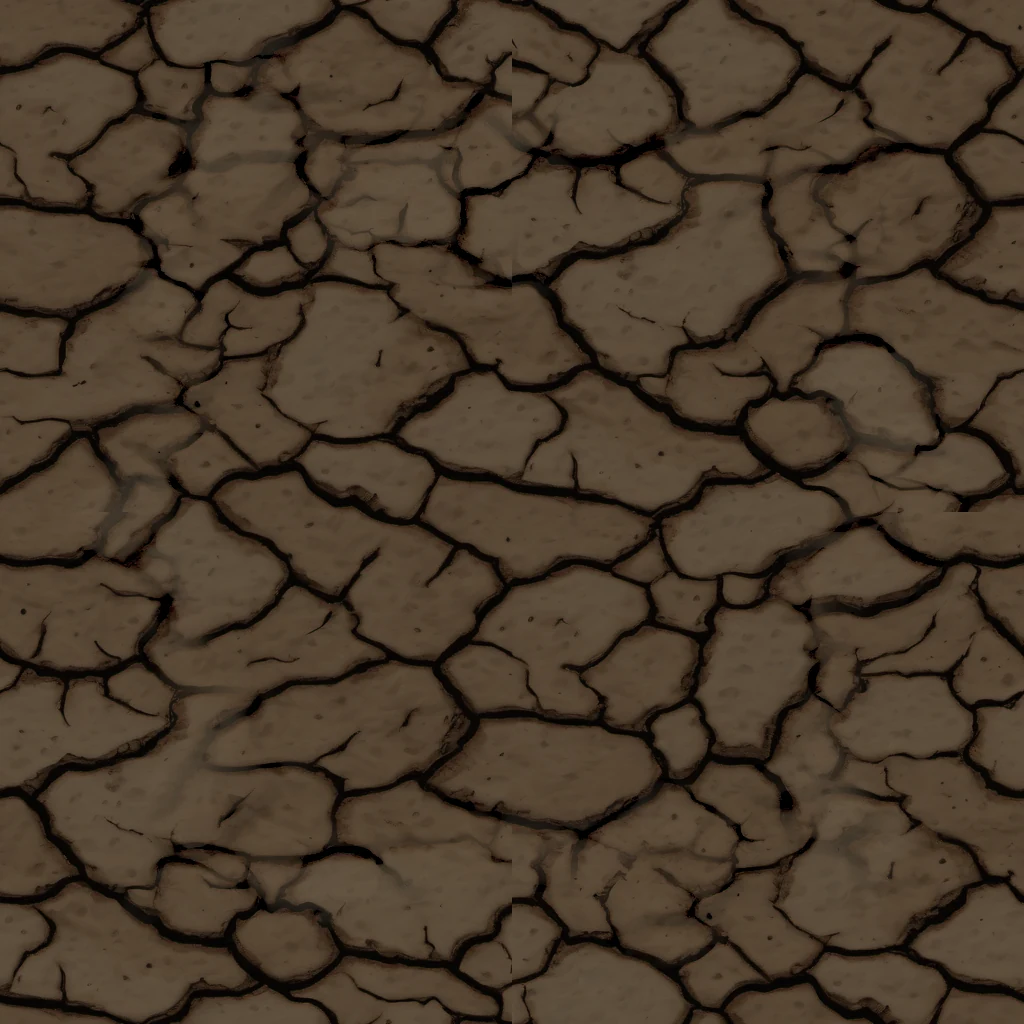
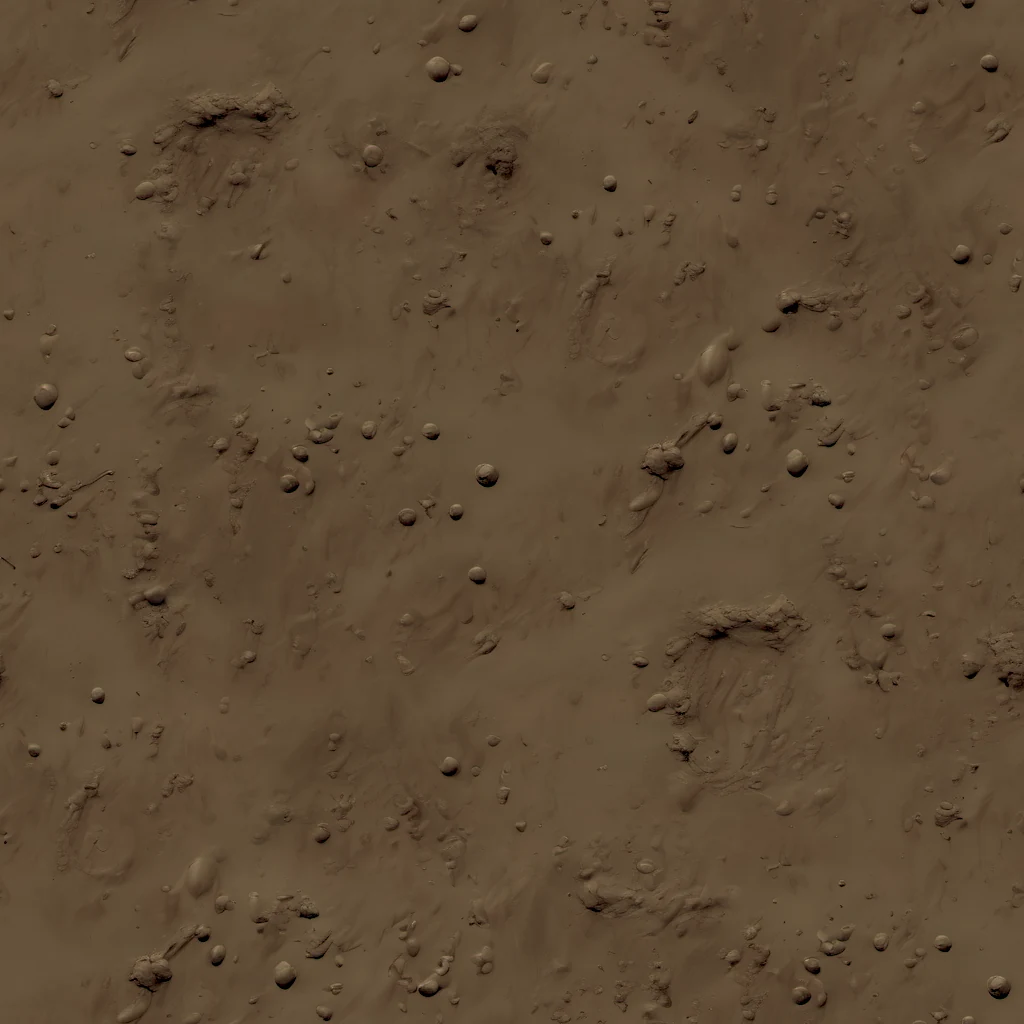
Painted textures for fields, mud, rock, sand and trench bands; blue rivers and sea
- field patchwork: pasture, green and ripening crops, ploughland with furrows that turn per field
- trench ribbon bands carry their own texture layer (sandbags, planks, mud, dirt)
- rivers painted as water with shallows, glints and a foam line; sea shifted to blue
- brighter texture grading

Claude-Session: https://claude.ai/code/session_016pgHKhuVkKihZSEc1iJ9a4

diff --git a/packages/client/src/render/trenches.ts b/packages/client/src/render/trenches.ts
@@ -7,6 +7,7 @@ import { HH, HW, TS, type GameState } from '@riskrts/shared';
 import { BF_SS, type BorderField } from './borderField';
 import type { Terrain } from './terrain';
 import { col } from './util';
+import { uGOn, uGTex } from './groundTex';
 
 /** Distance of each line from the border (tiles), and the half width of the cut (tiles) for trench level lv. */
 export const TR_D = [.42, 1.12];
@@ -29,7 +30,7 @@ type Seg = [number, number, number, number];
 
 export class Trenches {
   private readonly group = new THREE.Group();
-  private readonly mat = new THREE.MeshLambertMaterial({ vertexColors: true });
+  private readonly mat = trenchMaterial();
   private readonly meshes = new Map<string, THREE.Mesh>();
   /** Candidate cells per (region pair, line): indices of field cells whose corners all lie on that pair's side near the line. */
   private readonly cells = new Map<string, Int32Array>();
@@ -92,39 +93,47 @@ export class Trenches {
       return (dist[i] * (1 - tx) + dist[i + 1] * tx) * (1 - ty) + (dist[i + W] * (1 - tx) + dist[i + W + 1] * tx) * ty;
     };
     const hw = trHalf(L, lv) * TS, pw = .075 * TS, dep = (L === 0 ? .03 + .004 * lv : .024), ter = this.terrain;
-    // cross-section: offset across (towards the interior = +), height above ground, colour
-    const prof: [number, number, THREE.Color][] = [
-      [-(hw + pw), 0, C.grass], [-(hw + pw * .5), .011 + .002 * lv, C.bag], [-hw * 1.02, .006, C.bag2], [-hw * .82, -dep, C.wall], [-hw * .55, -dep, C.floor],
-      [hw * .55, -dep, C.floor], [hw * .82, -dep, C.wall], [hw * 1.02, .004, C.earth], [hw + pw * .5, .007, C.earth], [hw + pw, 0, C.grass],
+    // cross-section: offset across (towards the interior = +), height above ground, colour, texture layer of the band to the next point
+    // (0 grass, 1 dirt, 2 mud, 6 sandbags, 7 planks; groundTex.ts)
+    const prof: [number, number, THREE.Color, number][] = [
+      [-(hw + pw), 0, C.grass, 6], [-(hw + pw * .5), .011 + .002 * lv, C.bag, 6], [-hw * 1.02, .006, C.bag2, 7], [-hw * .82, -dep, C.wall, 2], [-hw * .55, -dep, C.floor, 7],
+      [hw * .55, -dep, C.floor, 2], [hw * .82, -dep, C.wall, 7], [hw * 1.02, .004, C.earth, 1], [hw + pw * .5, .007, C.earth, 1], [hw + pw, 0, C.grass, 0],
     ];
-    const pos: number[] = [], colr: number[] = [], idx: number[] = [];
+    const pos: number[] = [], colr: number[] = [], uvs: number[] = [], lay: number[] = [], idx: number[] = [];
     for (const ln of lines) {
       // resample the centre line evenly, push each point out by the fire-bay offset
       const pts = resample(ln.map(([x, y]) => [wx(x), wz(y)] as [number, number]), .008);
       if (pts.length < 2) continue;
-      const base = pos.length / 3;
+      const ring: [number, number, number][][] = [];
+      let arc = 0;
       for (let q = 0; q < pts.length; q++) {
         const [x, z] = pts[q], [xa, za] = pts[Math.max(0, q - 1)], [xb, zb] = pts[Math.min(pts.length - 1, q + 1)];
         let tx = xb - xa, tz = zb - za; const tl = Math.hypot(tx, tz) || 1; tx /= tl; tz /= tl;
         let nx = -tz, nz = tx; if (distAt(x + nx * .02, z + nz * .02) < distAt(x - nx * .02, z - nz * .02)) { nx = -nx; nz = -nz; }
         let o = 0; for (let it = 0; it < 3; it++) o = zig(x + nx * o, z + nz * o, L) * TS;
         const cx = x + nx * o, cz = z + nz * o;
-        for (const [off, h, c] of prof) {
-          const px = cx + nx * off, pz = cz + nz * off;
-          pos.push(px, ter.surfaceAt(px, pz) + h + .002, pz);
-          const sh = .9 + .2 * hashf(Math.floor(q / 3) * 7 + off * 1e3);
-          colr.push(c.r * sh, c.g * sh, c.b * sh);
-        }
+        ring.push(prof.map(([off]) => { const px = cx + nx * off, pz = cz + nz * off; return [px, 0, pz]; }));
+        for (let j = 0; j < prof.length; j++) { const r = ring[q][j]; r[1] = ter.surfaceAt(r[0], r[2]) + prof[j][1] + .002; }
       }
-      const NP = prof.length;
-      for (let q = 0; q < pts.length - 1; q++) for (let j = 0; j < NP - 1; j++) {
-        const a = base + q * NP + j, b = a + 1, c = a + NP, d = c + 1;
-        idx.push(a, c, b, b, c, d);
+      // each band gets its own vertices so its texture layer does not blend into the next
+      for (let j = 0; j < prof.length - 1; j++) {
+        const base = pos.length / 3, [o0, , c0, ly] = prof[j], [o1, , c1] = prof[j + 1];
+        arc = 0;
+        for (let q = 0; q < ring.length; q++) {
+          if (q) { const a0 = ring[q - 1][j], a1 = ring[q][j]; arc += Math.hypot(a1[0] - a0[0], a1[2] - a0[2]); }
+          const sh = .9 + .2 * hashf(Math.floor(q / 3) * 7 + j);
+          for (const [r, off, c] of [[ring[q][j], o0, c0], [ring[q][j + 1], o1, c1]] as [[number, number, number], number, THREE.Color][]) {
+            pos.push(r[0], r[1], r[2]); colr.push(c.r * sh, c.g * sh, c.b * sh);
+            uvs.push(arc * 9, (off + r[1] * 1.5) * 9); lay.push(ly);
+          }
+        }
+        for (let q = 0; q < ring.length - 1; q++) { const a = base + q * 2, b2 = a + 1, c = a + 2, d = a + 3; idx.push(a, c, b2, b2, c, d); }
       }
     }
     const geo = new THREE.BufferGeometry();
     geo.setAttribute('position', new THREE.Float32BufferAttribute(pos, 3));
     geo.setAttribute('color', new THREE.Float32BufferAttribute(colr, 3));
+    geo.setAttribute('tuv', new THREE.Float32BufferAttribute(uvs, 2)); geo.setAttribute('lay', new THREE.Float32BufferAttribute(lay, 1));
     geo.setIndex(idx); geo.computeVertexNormals();
     const m = new THREE.Mesh(geo, this.mat); m.receiveShadow = true; m.castShadow = true; m.frustumCulled = true;
     geo.computeBoundingSphere();
@@ -132,6 +141,19 @@ export class Trenches {
   }
 
   dispose() { for (const m of this.meshes.values()) m.geometry.dispose(); this.mat.dispose(); this.group.removeFromParent(); }
+}
+
+/** Lambert with vertex colours, replaced by the painted texture layer of each band once the textures have loaded. */
+function trenchMaterial() {
+  const m = new THREE.MeshLambertMaterial({ vertexColors: true });
+  m.onBeforeCompile = (sh) => {
+    Object.assign(sh.uniforms, { uGTex, uGOn });
+    sh.vertexShader = sh.vertexShader.replace('#include <common>', '#include <common>\nattribute float lay; attribute vec2 tuv; varying float vLay; varying vec2 vTUv;')
+      .replace('#include <begin_vertex>', '#include <begin_vertex>\n  vLay=lay; vTUv=tuv;');
+    sh.fragmentShader = sh.fragmentShader.replace('#include <common>', '#include <common>\nuniform highp sampler2DArray uGTex; uniform float uGOn; varying float vLay; varying vec2 vTUv;')
+      .replace('#include <color_fragment>', '#include <color_fragment>\n  { vec3 t=texture(uGTex,vec3(vTUv,floor(vLay+.5))).rgb; diffuseColor.rgb=mix(diffuseColor.rgb,t,uGOn); }');
+  };
+  return m;
 }
 
 function hashf(n: number) { const s = Math.sin(n * 12.9898) * 43758.5453; return s - Math.floor(s); }

diff --git a/packages/client/src/render/groundPaint.ts b/packages/client/src/render/groundPaint.ts
@@ -87,7 +87,13 @@ vec3 groundPaint(vec3 wp, vec3 wn){
   if(uGOn>0.&&!snowy){
     vec3 bc=dec(nat.rgb);
     float wd=smoothstep(.5,.66,m2+(m-.5)*.35)+(green?0.:.55);
-    vec3 tc=field?gt(5.,p):sandy?gt(4.,p):mix(gt(0.,p),gt(1.,p),clamp(wd,0.,1.));
+    vec3 tg0=mix(gt(0.,p),gt(1.,p),clamp(wd,0.,1.)), tc=tg0;
+    if(field){
+      // patchwork: pasture, green or ripening crops, fresh ploughland; furrows turn from field to field
+      float fk=h1(floor(floor(q/uTS+uGrid*.5)/2.)+.37); vec2 fp=bit(flW,32.)?p:p.yx;
+      vec3 crop=mix(gt(0.,p),gt(5.,fp),.45);
+      tc=fk<.35?gt(0.,p)*vec3(1.05,1.08,.9):fk<.55?crop*vec3(1.,1.12,.85):fk<.72?crop*vec3(1.45,1.3,.75):gt(5.,fp);
+    } else if(sandy) tc=gt(4.,p);
     tc=mix(tc, tc*bc/max(.02,lum(bc))*lum(tc), field?.25:.4);
     c=mix(c,tc,uGOn);
   }
@@ -118,8 +124,14 @@ vec3 groundPaint(vec3 wp, vec3 wn){
   }
   if(river){
     float d=netDist(t,f,8.);
-    if(d<.19){ c=vec3(.03,.05,.055)*(.9+.3*m); if(px>.95) c+=.05; if(d>.15) c=mix(c,vec3(.12,.13,.11),.6); }
-    else if(d<.28){ c=mix(c,vec3(.06,.05,.035),.65); if(px>.8) c=dec(vec3(.33,.4,.2)); }
+    if(d<.19){
+      // water: deep blue in the channel, lighter over the shallows, ripples, glints and a thin foam line at the bank
+      float k=d/.19; vec3 deep=dec(vec3(.17,.29,.37)), shal=dec(vec3(.33,.45,.46));
+      c=mix(deep,shal,smoothstep(.35,1.,k))*(.88+.24*n1(p*vec2(38.,22.)+n1(p*9.)*2.));
+      if(h1(floor(p*110.))>.988) c+=dec(vec3(.55));
+      c=mix(c,dec(vec3(.66,.68,.6)),smoothstep(.82,.95,k)*smoothstep(.35,.7,n1(p*70.))*.7);
+    }
+    else if(d<.28){ float k=(d-.19)/.09; c=mix(dec(vec3(.27,.21,.14))*(.8+.3*m),c,smoothstep(.2,1.,k)); if(px>.86&&k>.3) c=dec(vec3(.33,.4,.2)); }
   }
   // rock faces on steep ground: orange-brown strata
   float slope=1.-wn.y;

diff --git a/packages/client/src/render/water.ts b/packages/client/src/render/water.ts
@@ -19,12 +19,12 @@ export class Water {
   float h21(vec2 p){ return fract(sin(dot(p,vec2(127.1,311.7)))*43758.5453); }
   float vn(vec2 p){ vec2 i=floor(p),f=fract(p); f=f*f*(3.-2.*f); return mix(mix(h21(i),h21(i+vec2(1,0)),f.x),mix(h21(i+vec2(0,1)),h21(i+vec2(1,1)),f.x),f.y); }
   void main(){
-    vec3 deep=vec3(.075,.11,.135);
+    vec3 deep=vec3(.06,.12,.19);
     vec2 wp=(vMap-uSize*.5)*uTS;
     if(vMap.x<0.||vMap.y<0.||vMap.x>uSize.x||vMap.y>uSize.y){ gl_FragColor=vec4(pow(deep*.6,vec3(2.2)),1.); return; }
     vec2 q=floor(wp*48.)/48.;
     float d=max(0.,(texture2D(uCoast,vMap/uSize).r*255.-40.)/12.);
-    vec3 c=mix(vec3(.2,.29,.28),vec3(.13,.21,.24),smoothstep(.3,4.,d)); c=mix(c,deep,smoothstep(5.,18.,d));
+    vec3 c=mix(vec3(.24,.36,.42),vec3(.12,.22,.31),smoothstep(.3,4.,d)); c=mix(c,deep,smoothstep(5.,18.,d));
     float n=vn(q*1.6+vec2(uTime*.07,uTime*.05))*.6+vn(q*4.+vec2(-uTime*.11,uTime*.09))*.4;
     c*=.93+.14*n;
     float w=sin((q.x*1.3+q.y*.8)*3.1+uTime*.9+n*6.)*.5+.5;

diff --git a/packages/client/src/render/detail.ts b/packages/client/src/render/detail.ts
@@ -190,8 +190,6 @@ export class GroundDetail {
       }
       if (T.cityT[i]) continue;
       if (T.fieldT[i]) {
-        // a few bushes along the field's edge (the painted fields have soft, irregular edges, so no straight hedgerows)
-        for (let n = 0; n < 2; n++) if (hs(20 + n) < .35) { const bx = jx(21 + n), bz = jz(22 + n), s0 = .018 + hs(23 + n) * .016; add(bx, yAt(bx, bz), bz, s0, s0 * .9, s0, shade(C.hedge, .85 + hs(24 + n) * .35)); }
         if (hs(3) < .035) { // farmstead
           const fx = jx(4), fz = jz(4), h = yAt(fx, fz);
           add(fx, h, fz, .055, .035, .045, C.wall); add(fx, h + .035, fz - .011, .062, .012, .026, shade(C.roof, 1.2)); add(fx, h + .035, fz + .011, .062, .012, .026, shade(C.roof, .8)); add(fx, h + .047, fz, .062, .006, .008, C.roof);

diff --git a/packages/client/src/render/groundTex.ts b/packages/client/src/render/groundTex.ts
@@ -3,7 +3,7 @@
 // keeps its procedural colours, so `uGOn` fades them in.
 import * as THREE from 'three';
 
-export const GROUND_LAYERS = ['grass', 'dirt', 'mud', 'rock', 'sand', 'field'] as const;
+export const GROUND_LAYERS = ['grass', 'dirt', 'mud', 'rock', 'sand', 'field', 'sandbags', 'planks'] as const;
 const SIZE = 1024;
 
 export const uGTex: { value: THREE.Texture } = { value: placeholder() };
